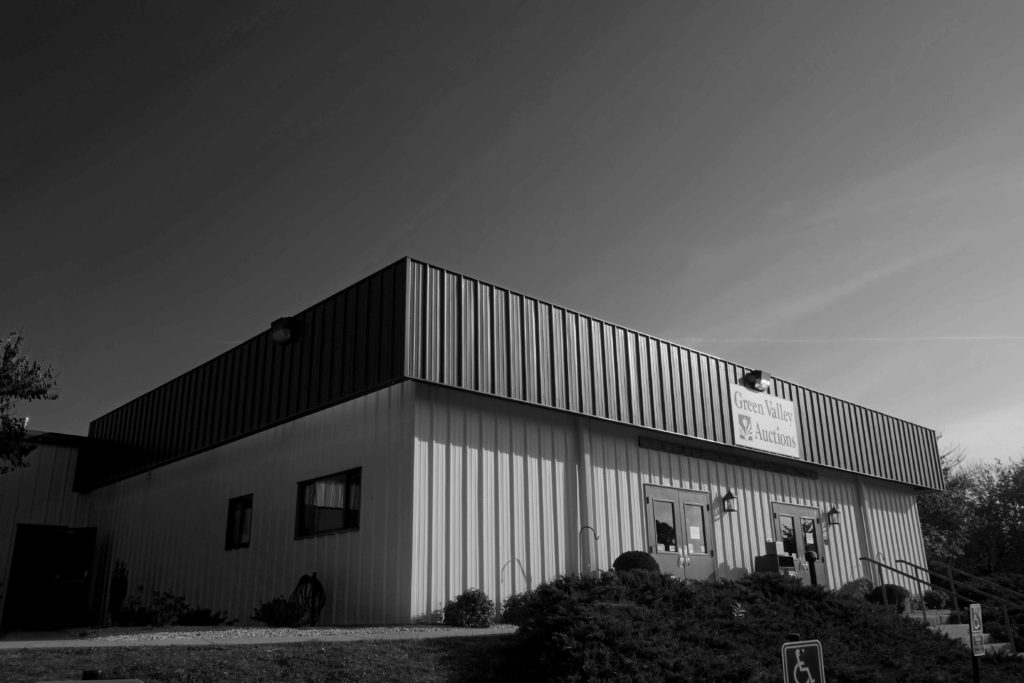
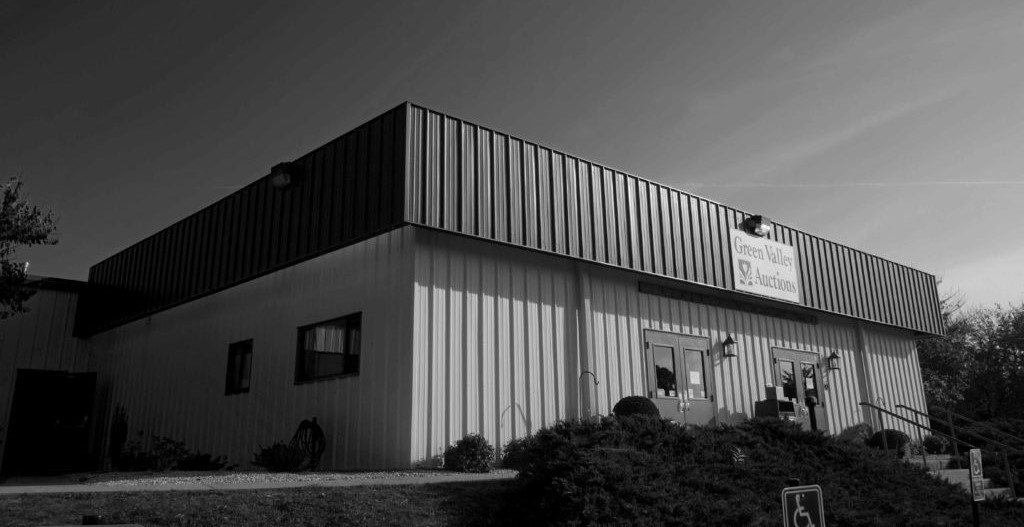
fixed background

diff --git a/Content/CustLandingPage.css b/Content/CustLandingPage.css
@@ -67,8 +67,9 @@ body {
   color: #212529;
   text-align: left;
   background-color: #fff;
-  background-image: url('/images/background.jpg');
+  background-image: url('/images/background3.jpg');
   background-repeat: no-repeat;
+  background-size: cover;
 }
 
 [tabindex="-1"]:focus:not(:focus-visible) {
